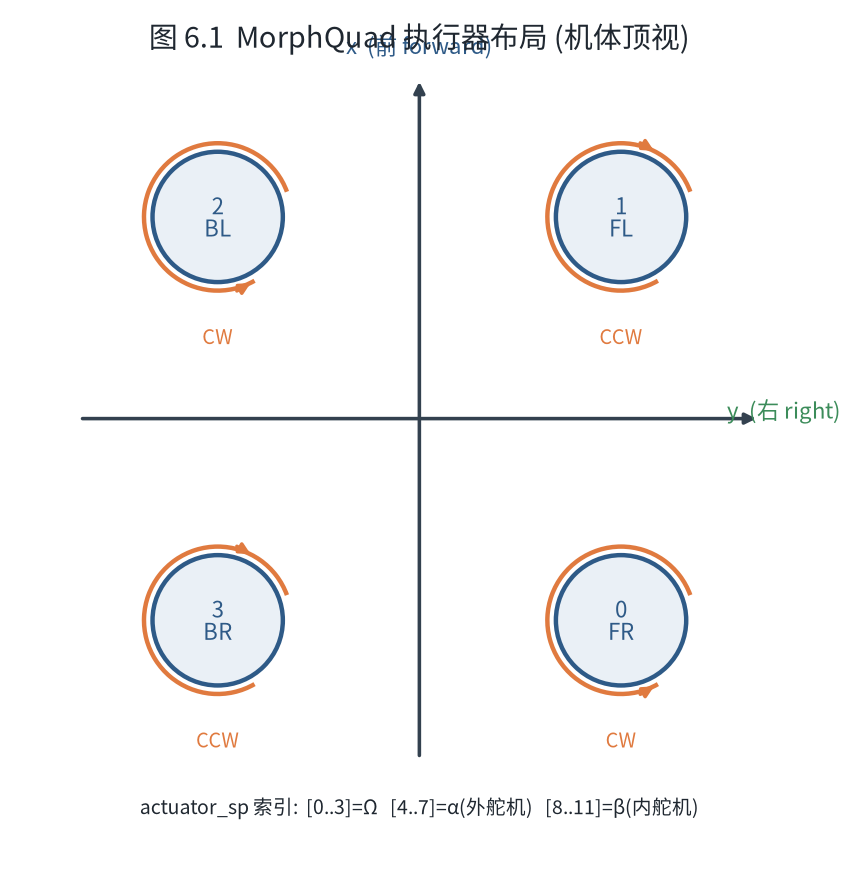
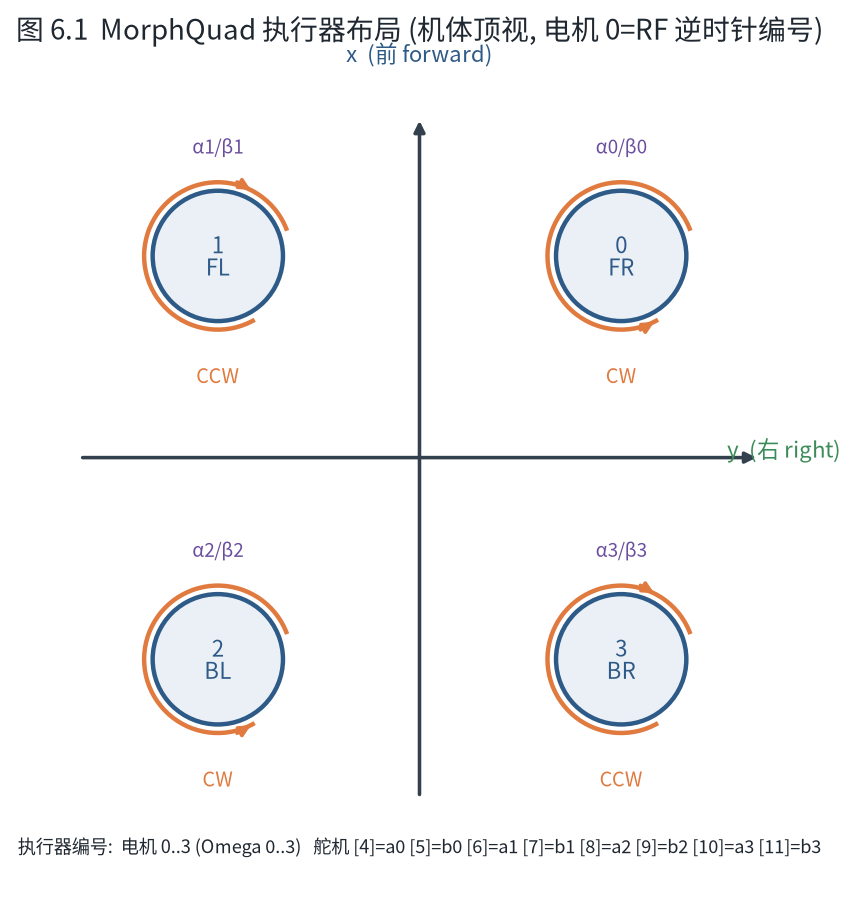
control_allocator: MorphQuad 执行器编号约定与代码对齐
- 舵机按电机交错编号: 外舵机 α_i -> actuator_sp[4+2i], 内舵机 β_i -> actuator_sp[5+2i]
- 旋翼几何: 电机0=右前(RF), 逆时针 RF->LF->LB->RB, 位置 RF(+l,+b)/LF(+l,-b)/LB(-l,-b)/RB(-l,+b)
- 同步更新软件设计报告插图(gen_figures.py)与正文(§3.3/§6.2/§7.3)
- 几何数组(roll_sign/eps_x/ly)相应重排, 物理分配等价(仅重标号)

diff --git a/docs/figures/gen_figures.py b/docs/figures/gen_figures.py
@@ -98,7 +98,7 @@ def fig_algo_flow():
                                   "下洗干扰避免：打破推力共线性"], C_GREEN, 2.1),
         ("Step 3  舵机角度反解", ["双分支解 + 最小运动选择",
                                    "多周期缠绕支持 (±2kπ)"], C_PURPLE, 0.6),
-        ("输出", ["[Ω1…Ω4, α1…α4, β1…β4]", "→ 执行器指令 (PWM)"], C_ORANGE, -0.8),
+        ("输出", ["[Ω0…Ω3, α0,β0,α1,β1,", " α2,β2,α3,β3]", "→ 执行器指令"], C_ORANGE, -0.8),
     ]
     prev_bottom = None
     for t, lines, c, yb in nodes:
@@ -171,7 +171,7 @@ def fig_data_flow():
         ("updateSetpoint()", ["核心分配入口"], C_HEADER, 2.8),
         ("computeThrustVectors()", ["Eq. (12) + (15-16)", "最小范数 + 零空间修正"], C_GREEN, 1.5),
         ("recoverServoAngles()  ×4", ["Eq. (14)", "双分支 + 最小运动"], C_PURPLE, 0.2),
-        ("actuator_sp[8]", ["[Ω0..Ω3, α0..α3]", "归一化执行器指令"], C_ORANGE, -1.1),
+        ("actuator_sp[12]", ["[Ω0..Ω3, α0,β0,α1,β1,", " α2,β2,α3,β3]", "归一化执行器指令"], C_ORANGE, -1.1),
     ]
     chain_right = W / 2  # = 1.5
     prev = None
@@ -291,19 +291,23 @@ def fig_actuator_layout():
                 arrowprops=dict(arrowstyle="-|>", color=C_LINE, lw=1.6))
     ax.annotate("", xy=(2.2, 0), xytext=(-2.2, 0),
                 arrowprops=dict(arrowstyle="-|>", color=C_LINE, lw=1.6))
-    ax.text(0, 2.35, "x  (前 forward)", ha="center", fontproperties=FP_B,
+    ax.text(0, 2.55, "x  (前 forward)", ha="center", fontproperties=FP_B,
             color=C_HEADER, fontsize=10)
     ax.text(2.35, 0, "y  (右 right)", ha="center", fontproperties=FP_B,
             color=C_GREEN, fontsize=10)
 
-    l, b = 1.3, 1.3  # visual half-arm (x forward, y right)
+    l, b = 1.3, 1.3  # visual half-arm (body x forward, y right)
+    # Motor 0 = right-front (RF); numbering is counter-clockwise: RF -> LF -> LB -> RB
+    # Body frame: +x forward, +y right.  In the plot the vertical axis is body x
+    # (forward) and the horizontal axis is body y (right), so matplotlib (x,y) = (body_y, body_x).
     rotors = {
-        0: (l, -b, "FR", "CW"),
-        1: (l, b, "FL", "CCW"),
-        2: (-l, b, "BL", "CW"),
-        3: (-l, -b, "BR", "CCW"),
+        0: (l, b, "FR", "CW"),
+        1: (l, -b, "FL", "CCW"),
+        2: (-l, -b, "BL", "CW"),
+        3: (-l, b, "BR", "CCW"),
     }
-    for idx, (x, y, name, dirn) in rotors.items():
+    for idx, (bx, by, name, dirn) in rotors.items():
+        x, y = by, bx  # convert body frame to matplotlib coordinates
         import math  # local import (used below for spin arrowhead)
         ax.add_patch(Circle((x, y), 0.42, fc=C_LIGHT, ec=C_HEADER, lw=2, zorder=2))
         ax.text(x, y, f"{idx}\n{name}", ha="center", va="center",
@@ -325,11 +329,16 @@ def fig_actuator_layout():
                     zorder=3)
         ax.text(x, y - 0.82, dirn, ha="center", fontproperties=FP_B,
                 color=C_ORANGE, fontsize=9, zorder=3)
+        # servo pair label (outer α_i + inner β_i) above each rotor
+        ax.text(x, y + 0.66, f"α{idx}/β{idx}", ha="center",
+                fontproperties=FP_B, color=C_PURPLE, fontsize=8.5, zorder=3)
 
     ax.text(0, -2.55,
-            "actuator_sp 索引:  [0..3]=Ω   [4..7]=α(外舵机)   [8..11]=β(内舵机)",
-            ha="center", fontproperties=FP, color="#1f2730", fontsize=8.8)
-    title(ax, "图 6.1  MorphQuad 执行器布局 (机体顶视)", 0, 2.45, fs=13)
+            "执行器编号:  电机 0..3 (Omega 0..3)   舵机 [4]=a0 [5]=b0 [6]=a1 [7]=b1 "
+            "[8]=a2 [9]=b2 [10]=a3 [11]=b3",
+            ha="center", fontproperties=FP, color="#1f2730", fontsize=8.2)
+    title(ax, "图 6.1  MorphQuad 执行器布局 (机体顶视, 电机 0=RF 逆时针编号)",
+          0, 2.75, fs=12.5)
     plt.savefig(os.path.join(HERE, "actuator_layout.png"), dpi=160,
                 bbox_inches="tight", facecolor="white")
     plt.close(fig)

diff --git a/src/modules/control_allocator/VehicleActuatorEffectiveness/ActuatorEffectivenessMorphQuad.cpp b/src/modules/control_allocator/VehicleActuatorEffectiveness/ActuatorEffectivenessMorphQuad.cpp
@@ -128,8 +128,8 @@ void ActuatorEffectivenessMorphQuad::updateSetpoint(
 
 		actuator_sp(i) = motor_clamped;
 
-		// Outer servo (alpha) saturation check
-		const int alpha_idx = NUM_ROTORS + i;
+		// Outer servo (alpha) — interleaved per motor: actuator_sp[4 + 2*i]
+		const int alpha_idx = 4 + 2 * i;
 		const float alpha_clamped = math::constrain(alpha_raw[i], actuator_min(alpha_idx), actuator_max(alpha_idx));
 
 		if (fabsf(alpha_clamped - alpha_raw[i]) > FLT_EPSILON) {
@@ -138,8 +138,8 @@ void ActuatorEffectivenessMorphQuad::updateSetpoint(
 
 		actuator_sp(alpha_idx) = alpha_clamped;
 
-		// Inner servo (beta) saturation check
-		const int beta_idx = 2 * NUM_ROTORS + i;
+		// Inner servo (beta) — interleaved per motor: actuator_sp[5 + 2*i]
+		const int beta_idx = 5 + 2 * i;
 		const float beta_clamped = math::constrain(beta_raw[i], actuator_min(beta_idx), actuator_max(beta_idx));
 
 		if (fabsf(beta_clamped - beta_raw[i]) > FLT_EPSILON) {
@@ -165,16 +165,16 @@ void ActuatorEffectivenessMorphQuad::computeThrustVectors(
 	const float gimbal_lock_gain = _param_ca_mq_glg.get();
 	const float downwash_gain = _param_ca_mq_dwg.get();
 
-	// X-layout sign patterns (rotor order: FR=0, FL=1, BL=2, BR=3)
-	// roll_sign:  +1 for rotors on the -y side (FR, BR), -1 for +y side (FL, BL)
-	const float roll_sign[NUM_ROTORS]  = {+1.0f, -1.0f, -1.0f, +1.0f};
+	// X-layout sign patterns (rotor order: RF=0, LF=1, LB=2, RB=3, counter-clockwise from RF)
+	// roll_sign:  +1 for rotors on the -y side (LF, LB), -1 for +y side (RF, RB)
+	const float roll_sign[NUM_ROTORS]  = {-1.0f, +1.0f, +1.0f, -1.0f};
 	// pitch_sign: -1 for front (+x), +1 for back (-x)
 	const float pitch_sign[NUM_ROTORS] = {-1.0f, -1.0f, +1.0f, +1.0f};
 
 	// Yaw unit vectors (Eq.13): perpendicular to rotor arm in xy-plane
 	// e_psi_i = [-l_iy/r, +l_ix/r, 0]
-	// Rotor positions: FR(+l,-b), FL(+l,+b), BL(-l,+b), BR(-l,-b)
-	const float eps_x[NUM_ROTORS] = {-b / r,  b / r,  b / r, -b / r};
+	// Rotor positions: RF(+l,+b), LF(+l,-b), LB(-l,-b), RB(-l,+b)
+	const float eps_x[NUM_ROTORS] = { b / r, -b / r, -b / r,  b / r};
 	const float eps_y[NUM_ROTORS] = { l / r,  l / r, -l / r, -l / r};
 
 	// Step 1: Minimum-norm decomposition (Eq.12)
@@ -343,14 +343,15 @@ void ActuatorEffectivenessMorphQuad::computeUnallocatedWrench(
 	Vector3f f_achieved(0.f, 0.f, 0.f);
 	Vector3f tau_achieved(0.f, 0.f, 0.f);
 
-	// Rotor positions (X-layout: FR, FL, BL, BR)
+	// Rotor positions (X-layout: RF, LF, LB, RB, counter-clockwise from RF)
 	const float lx[NUM_ROTORS] = { l,  l, -l, -l};
-	const float ly[NUM_ROTORS] = {-b,  b,  b, -b};
+	const float ly[NUM_ROTORS] = { b, -b, -b,  b};
 
 	for (int i = 0; i < NUM_ROTORS; ++i) {
 		// Recover actual alpha, beta from saturated actuator outputs
-		const float alpha_actual = actuator_sp(NUM_ROTORS + i) * M_PI_F;
-		const float beta_actual = actuator_sp(2 * NUM_ROTORS + i) * M_PI_F;
+		// (interleaved per motor: alpha at 4+2*i, beta at 5+2*i)
+		const float alpha_actual = actuator_sp(4 + 2 * i) * M_PI_F;
+		const float beta_actual  = actuator_sp(5 + 2 * i) * M_PI_F;
 
 		// Achieved thrust magnitude: actuator_sp(i) is the normalized thrust
 		// fraction in [0,1] (esc-cmd-norm), so T = fraction * TMAX.

diff --git a/docs/软件设计报告_MorphQuad推力分配.md b/docs/软件设计报告_MorphQuad推力分配.md
@@ -72,7 +72,7 @@ bool getEffectivenessMatrix(Configuration &configuration,
 **行为**：
 - 仅在 `external_update != NO_EXTERNAL_UPDATE` 时执行（几何结构静态）
 - 注册 4 个电机（推力方向 `[0, 0, -1]`，NED 下 -z = 向上）
-- 注册 4 个舵机（占位，实际分配在 `updateSetpoint` 中完成）
+- 注册 8 个舵机（4 外 $\alpha$ + 4 内 $\beta$，实际分配在 `updateSetpoint` 中完成）
 - 返回 `true` 表示矩阵已更新
 
 **设计决策**：采用 **Pattern B**（零矩阵 + `updateSetpoint` 覆盖），原因见算法设计报告 §5.1。
@@ -86,21 +86,22 @@ void updateSetpoint(const Vector<float, NUM_AXES> &control_sp, int matrix_index,
                    const ActuatorVector &actuator_max) override;
 ```
 
-**职责**：核心推力分配入口，将 6D wrench 转换为 8 个执行器指令。
+**职责**：核心推力分配入口，将 6D wrench 转换为 12 个执行器指令（4 电机 + 8 舵机）。
 
 **输入**：
 - `control_sp[6]`：`[roll_torque, pitch_torque, yaw_torque, thrust_x, thrust_y, thrust_z]`
 - `actuator_min[16]`、`actuator_max[16]`：执行器限幅
 
 **输出**：
-- `actuator_sp[0..3]`：电机转速归一化值 [0, 1]
-- `actuator_sp[4..7]`：外舵机角度归一化值 [-1, 1]
+- `actuator_sp[0..3]`：电机 0..3 转速归一化值 [0, 1]
+- `actuator_sp[4 + 2i]`：电机 $i$ 外舵机 $\alpha_i$ 归一化角度 [-1, 1]（$i=0..3$）
+- `actuator_sp[5 + 2i]`：电机 $i$ 内舵机 $\beta_i$ 归一化角度 [-1, 1]（$i=0..3$）
 
 **处理流程**：
 1. 从 `control_sp` 提取 $\mathbf{f}_d$ 和 $\boldsymbol{\tau}_d$
 2. 调用 `computeThrustVectors()` 计算 4 个推力向量
 3. 对每个旋翼调用 `recoverServoAngles()` 反解舵机角度和电机转速
-4. 归一化并写入 `actuator_sp`
+4. 按 §6.2.3 的交错约定归一化并写入 `actuator_sp[0..11]`
 5. 饱和处理（clamp 到 `[min, max]`）
 
 #### `computeThrustVectors()`
@@ -273,19 +274,72 @@ ControlAllocator 订阅这两个话题，构造 6D `control_sp` 向量传入 `up
 
 ![图 6.1  MorphQuad 执行器布局 (机体顶视)](figures/actuator_layout.png)
 
-### 6.2 信号归一化
+### 6.2 执行器编号约定
 
-| 执行器 | 物理量 | 归一化范围 | 归一化公式 |
-|--------|--------|-----------|-----------|
-| 电机 0-3 | $\Omega_i$ [rad/s] | [0, 1] | $\Omega_i / \Omega_{\max}$，$\Omega_{\max} = 1200$ |
-| 舵机 0-3（外） | $\alpha_i$ [rad] | [-1, 1] | $\alpha_i / \pi$ |
-| 舵机 4-7（内） | $\beta_i$ [rad] | [-1, 1] | $\beta_i / \pi$ |
+> 本章节定义 MorphQuad 全部 12 路执行器（4 电机 + 8 舵机）的**唯一编号约定**，作为软件设计与硬件/仿真映射的权威依据。坐标系为机体顶视：$+x$ 指向前方、$+y$ 指向右方。
 
-**注意**：12 路执行器（4 电机 + 4 外舵机 $\alpha$ + 4 内舵机 $\beta$）已完整输出到 `actuator_sp[0..11]`，
-由 `ActuatorEffectivenessMorphQuad::updateSetpoint()` 写入（见代码 §3.3）。桥接层 `configs/morphquad.xml`
-以 `scale=π` 将归一化舵角还原为弧度，1:1 直连 JSBSim 的 `fcs/esc-cmd-norm[i]`、`fcs/servo-alpha-cmd[i]`、
-`fcs/servo-beta-cmd[i]`。旋翼序号与物理位置对齐（FR=(+l,−b)、FL=(+l,+b)、BL=(−l,+b)、BR=(−l,−b)），
-与 JSBSim 模型 `morphquad.xml` 中 ROTORi 的位置一一对应。
+#### 6.2.1 电机（旋翼）编号
+
+第一个电机为**右前（RF）**，随后按**逆时针**依次编号：
+
+| 电机序号 | 物理位置 | 机体坐标 |
+|---------|---------|---------|
+| 0 | 右前（RF） | $(+l,\ +b)$ |
+| 1 | 左前（LF） | $(+l,\ -b)$ |
+| 2 | 左后（LB） | $(-l,\ -b)$ |
+| 3 | 右后（RB） | $(-l,\ +b)$ |
+
+逆时针走向：RF → LF → LB → RB（顶视，从右前开始向左转）。
+
+#### 6.2.2 舵机编号
+
+每个电机配备一对舵机：**外舵机 $\alpha$** 与 **内舵机 $\beta$**。舵机按“**先外后内、逐电机**”的顺序编号：
+
+| 舵机序号 | 归属电机 | 类型 | 物理位置 |
+|---------|---------|------|---------|
+| 0 | 电机 0 (RF) | 外舵机 $\alpha_0$ | 右前外 |
+| 1 | 电机 0 (RF) | 内舵机 $\beta_0$ | 右前内 |
+| 2 | 电机 1 (LF) | 外舵机 $\alpha_1$ | 左前外 |
+| 3 | 电机 1 (LF) | 内舵机 $\beta_1$ | 左前内 |
+| 4 | 电机 2 (LB) | 外舵机 $\alpha_2$ | 左后外 |
+| 5 | 电机 2 (LB) | 内舵机 $\beta_2$ | 左后内 |
+| 6 | 电机 3 (RB) | 外舵机 $\alpha_3$ | 右后外 |
+| 7 | 电机 3 (RB) | 内舵机 $\beta_3$ | 右后内 |
+
+通用映射：舵机序号 $k \in [0,7]$，所属电机 $i = \lfloor k/2 \rfloor$，类型由 $k$ 的奇偶决定——偶数为外舵机 $\alpha_i$、奇数为内舵机 $\beta_i$。
+
+#### 6.2.3 归一化与 `actuator_sp` 布局
+
+12 路执行器写入 `actuator_sp[0..11]`，布局如下：
+
+| `actuator_sp` 索引 | 执行器 | 物理量 | 归一化范围 | 归一化公式 |
+|-------------------|--------|--------|-----------|-----------|
+| 0 | 电机 0 (RF) | $\Omega_0$ | [0, 1] | $\Omega_0 / \Omega_{\max}$，$\Omega_{\max} = 1200$ |
+| 1 | 电机 1 (LF) | $\Omega_1$ | [0, 1] | $\Omega_1 / \Omega_{\max}$ |
+| 2 | 电机 2 (LB) | $\Omega_2$ | [0, 1] | $\Omega_2 / \Omega_{\max}$ |
+| 3 | 电机 3 (RB) | $\Omega_3$ | [0, 1] | $\Omega_3 / \Omega_{\max}$ |
+| 4 | 舵机 0（电机0 外 $\alpha_0$） | $\alpha_0$ | [-1, 1] | $\alpha_0 / \pi$ |
+| 5 | 舵机 1（电机0 内 $\beta_0$） | $\beta_0$ | [-1, 1] | $\beta_0 / \pi$ |
+| 6 | 舵机 2（电机1 外 $\alpha_1$） | $\alpha_1$ | [-1, 1] | $\alpha_1 / \pi$ |
+| 7 | 舵机 3（电机1 内 $\beta_1$） | $\beta_1$ | [-1, 1] | $\beta_1 / \pi$ |
+| 8 | 舵机 4（电机2 外 $\alpha_2$） | $\alpha_2$ | [-1, 1] | $\alpha_2 / \pi$ |
+| 9 | 舵机 5（电机2 内 $\beta_2$） | $\beta_2$ | [-1, 1] | $\beta_2 / \pi$ |
+| 10 | 舵机 6（电机3 外 $\alpha_3$） | $\alpha_3$ | [-1, 1] | $\alpha_3 / \pi$ |
+| 11 | 舵机 7（电机3 内 $\beta_3$） | $\beta_3$ | [-1, 1] | $\beta_3 / \pi$ |
+
+**桥接层映射**（`configs/morphquad.xml`，`scale=π` 还原弧度）：
+- `fcs/esc-cmd-norm[i]` ← `actuator_sp[i]`（电机 $i$，$i=0..3$）
+- `fcs/servo-alpha-cmd[i]` ← `actuator_sp[4 + 2i]`（电机 $i$ 的外舵机 $\alpha_i$）
+- `fcs/servo-beta-cmd[i]`  ← `actuator_sp[5 + 2i]`（电机 $i$ 的内舵机 $\beta_i$）
+
+旋翼序号与 JSBSim 模型 `morphquad.xml` 中 ROTOR$i$ 的物理位置一一对应。
+
+> **实现状态**：代码 `ActuatorEffectivenessMorphQuad` 已按本约定实现——`updateSetpoint()` 写入
+> 电机 `actuator_sp[0..3]` 与外/内舵机 `actuator_sp[4+2i]` / `actuator_sp[5+2i]`，
+> `computeUnallocatedWrench()` 按相同索引重建 wrench，旋翼几何为 `RF=(+l,+b)` 逆时针布局。
+> 外部桥接层 `configs/morphquad.xml` 需保证 `servo-alpha-cmd[i]→actuator_sp[4+2i]`、
+> `servo-beta-cmd[i]→actuator_sp[5+2i]`，且 JSBSim 模型 `morphquad.xml` 中 ROTOR$i$ 的物理位置
+> 与本约定的 `RF=(+l,+b)` 一致，否则需相应调整旋向/符号。
 
 ---
 
@@ -305,21 +359,33 @@ ControlAllocator 订阅这两个话题，构造 6D `control_sp` 向量传入 `up
 
 ### 7.3 饱和处理
 
-在 `updateSetpoint()` 末尾对 `actuator_sp[0..7]` 执行 clamp，并检测饱和状态：
+在 `updateSetpoint()` 末尾按 §6.2.3 的编号约定对 `actuator_sp[0..11]` 执行 clamp，并检测饱和状态：
 ```cpp
 // 饱和检测
 _motor_saturated = false;
 _servo_saturated = false;
 
+// 4 个电机: actuator_sp[0..3]
 for (int i = 0; i < 4; i++) {
     float clamped = math::constrain(actuator_sp(i), actuator_min(i), actuator_max(i));
     if (clamped != actuator_sp(i)) _motor_saturated = true;
     actuator_sp(i) = clamped;
 }
-for (int i = 4; i < 8; i++) {
-    float clamped = math::constrain(actuator_sp(i), actuator_min(i), actuator_max(i));
-    if (clamped != actuator_sp(i)) _servo_saturated = true;
-    actuator_sp(i) = clamped;
+
+// 8 个舵机: 外 α_i 在 4+2i, 内 β_i 在 5+2i
+for (int i = 0; i < 4; i++) {
+    int alpha_idx = 4 + 2 * i;
+    int beta_idx  = 5 + 2 * i;
+
+    float alpha_clamped = math::constrain(actuator_sp(alpha_idx),
+                                          actuator_min(alpha_idx), actuator_max(alpha_idx));
+    if (alpha_clamped != actuator_sp(alpha_idx)) _servo_saturated = true;
+    actuator_sp(alpha_idx) = alpha_clamped;
+
+    float beta_clamped = math::constrain(actuator_sp(beta_idx),
+                                         actuator_min(beta_idx), actuator_max(beta_idx));
+    if (beta_clamped != actuator_sp(beta_idx)) _servo_saturated = true;
+    actuator_sp(beta_idx) = beta_clamped;
 }
 ```
 
@@ -366,6 +432,7 @@ for (int i = 4; i < 8; i++) {
 | v0.3 | 2026-07-27 | 修复编译错误，参数化惯性矩阵，添加 module.yaml |
 | v0.4 | 2026-07-29 | 三模式输入 (Manual/Offboard/Auto), 摇杆死区, 积分器+抗饱和, 饱和信号输出 |
 | v0.5 | 2026-07-29 | vector 启动脚本 (rc.vector_defaults/rc.vector_apps), CA_AIRFRAME=16 |
+| v0.6 | 2026-08-06 | 明确执行器编号约定：电机 0=右前逆时针编号；舵机按"先外后内、逐电机"交错排序（§6.2） |
 
 ---
 
